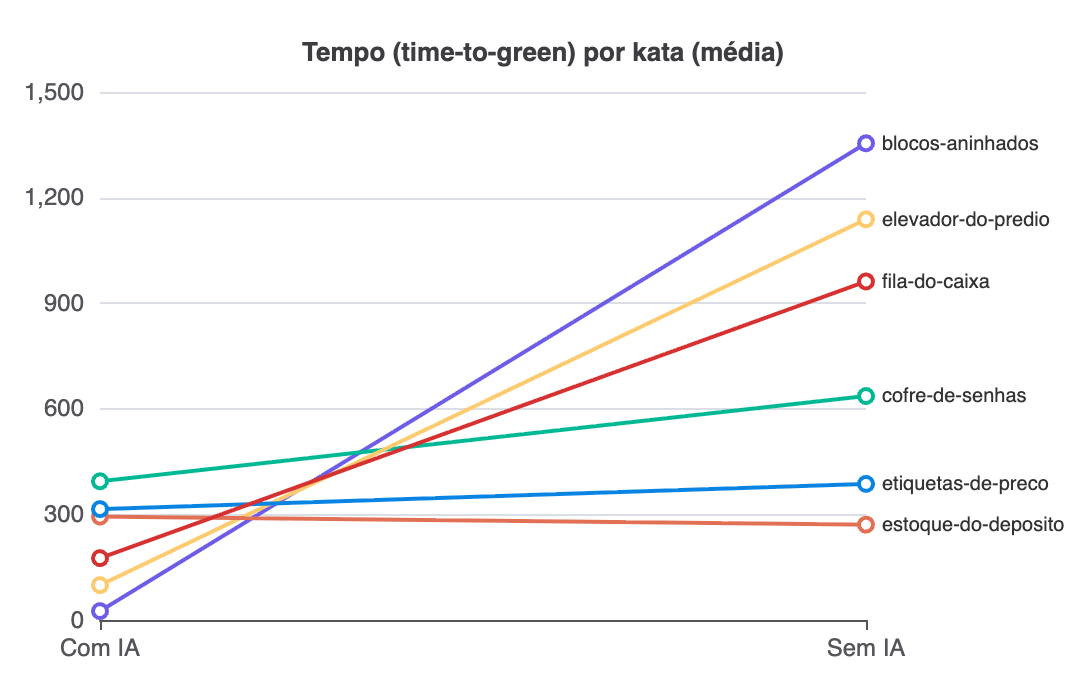
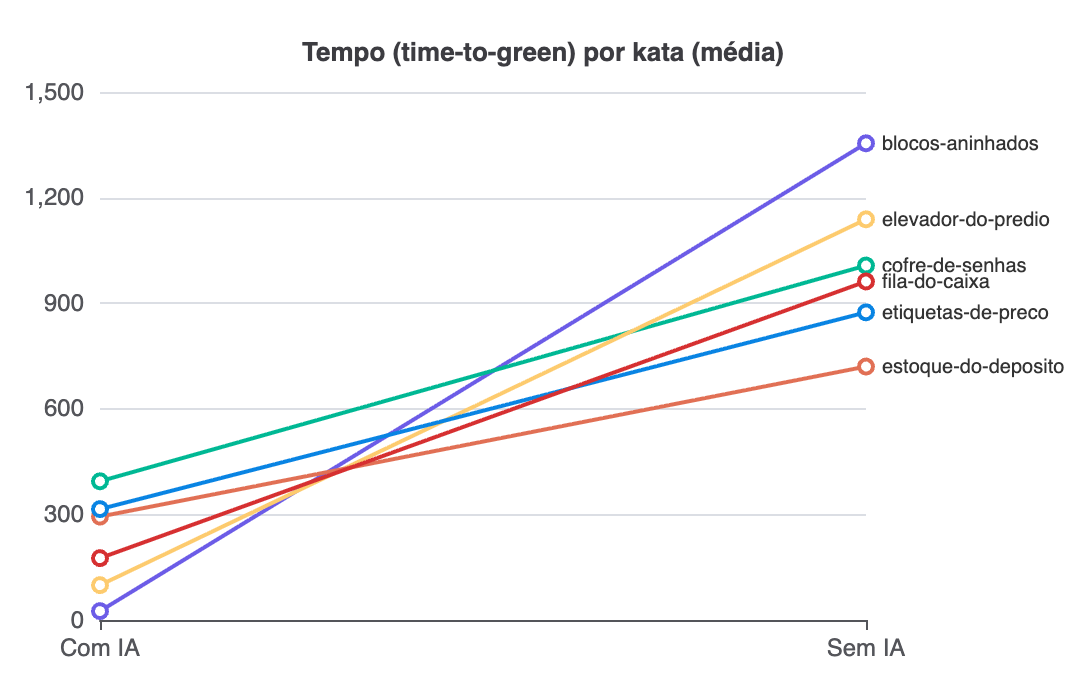
Ajsutes no relatorio

diff --git a/results/dashboard.html b/results/dashboard.html
@@ -162,7 +162,7 @@
 </div>
 
 <script>
-const DADOS = {"n_trials": 18, "n_com_ia": 9, "n_sem_ia": 9, "n_nao_sucesso": 0, "n_falhas": 0, "vulns_total": 0, "duplicacao_max": 0.0, "boxplots": {"tempo_seg": {"chave": "tempo_seg", "rotulo": "Tempo (time-to-green)", "unidade": "s", "boxes": {"com_ia": [25.3, 175.7, 206.5, 381.0, 501.0], "sem_ia": [270.9, 636.3, 861.9, 1210.5, 1506.6]}, "pontos": {"com_ia": [{"trial_id": "trial-arthur-02-elevador-do-predio-com_ia", "kata": "elevador-do-predio", "valor": 99.0}, {"trial_id": "trial-arthur-04-fila-do-caixa-com_ia", "kata": "fila-do-caixa", "valor": 175.7}, {"trial_id": "trial-arthur-06-blocos-aninhados-com_ia", "kata": "blocos-aninhados", "valor": 25.3}, {"trial_id": "trial-felipe-02-etiquetas-de-preco-com_ia", "kata": "etiquetas-de-preco", "valor": 204.0}, {"trial_id": "trial-felipe-04-estoque-do-deposito-com_ia", "kata": "estoque-do-deposito", "valor": 206.5}, {"trial_id": "trial-felipe-06-cofre-de-senhas-com_ia", "kata": "cofre-de-senhas", "valor": 287.2}, {"trial_id": "trial-gabriel-01-etiquetas-de-preco-com_ia", "kata": "etiquetas-de-preco", "valor": 425.9}, {"trial_id": "trial-gabriel-03-estoque-do-deposito-com_ia", "kata": "estoque-do-deposito", "valor": 381.0}, {"trial_id": "trial-gabriel-05-cofre-de-senhas-com_ia", "kata": "cofre-de-senhas", "valor": 501.0}], "sem_ia": [{"trial_id": "trial-arthur-01-cofre-de-senhas-sem_ia", "kata": "cofre-de-senhas", "valor": 636.3}, {"trial_id": "trial-arthur-03-etiquetas-de-preco-sem_ia", "kata": "etiquetas-de-preco", "valor": 386.6}, {"trial_id": "trial-arthur-05-estoque-do-deposito-sem_ia", "kata": "estoque-do-deposito", "valor": 270.9}, {"trial_id": "trial-felipe-01-elevador-do-predio-sem_ia", "kata": "elevador-do-predio", "valor": 1414.8}, {"trial_id": "trial-felipe-03-fila-do-caixa-sem_ia", "kata": "fila-do-caixa", "valor": 1210.5}, {"trial_id": "trial-felipe-05-blocos-aninhados-sem_ia", "kata": "blocos-aninhados", "valor": 1202.0}, {"trial_id": "trial-gabriel-02-fila-do-caixa-sem_ia", "kata": "fila-do-caixa", "valor": 713.1}, {"trial_id": "trial-gabriel-04-blocos-aninhados-sem_ia", "kata": "blocos-aninhados", "valor": 1506.6}, {"trial_id": "trial-gabriel-06-elevador-do-predio-sem_ia", "kata": "elevador-do-predio", "valor": 861.9}]}}, "cc_media": {"chave": "cc_media", "rotulo": "Complexidade ciclomática média", "unidade": "", "boxes": {"com_ia": [6.0, 7.0, 8.33, 9.0, 9.5], "sem_ia": [6.75, 8.0, 9.0, 9.0, 10.0]}, "pontos": {"com_ia": [{"trial_id": "trial-arthur-02-elevador-do-predio-com_ia", "kata": "elevador-do-predio", "valor": 8.0}, {"trial_id": "trial-arthur-04-fila-do-caixa-com_ia", "kata": "fila-do-caixa", "valor": 6.0}, {"trial_id": "trial-arthur-06-blocos-aninhados-com_ia", "kata": "blocos-aninhados", "valor": 9.5}, {"trial_id": "trial-felipe-02-etiquetas-de-preco-com_ia", "kata": "etiquetas-de-preco", "valor": 9.0}, {"trial_id": "trial-felipe-04-estoque-do-deposito-com_ia", "kata": "estoque-do-deposito", "valor": 7.0}, {"trial_id": "trial-felipe-06-cofre-de-senhas-com_ia", "kata": "cofre-de-senhas", "valor": 8.33}, {"trial_id": "trial-gabriel-01-etiquetas-de-preco-com_ia", "kata": "etiquetas-de-preco", "valor": 9.0}, {"trial_id": "trial-gabriel-03-estoque-do-deposito-com_ia", "kata": "estoque-do-deposito", "valor": 7.0}, {"trial_id": "trial-gabriel-05-cofre-de-senhas-com_ia", "kata": "cofre-de-senhas", "valor": 8.33}], "sem_ia": [{"trial_id": "trial-arthur-01-cofre-de-senhas-sem_ia", "kata": "cofre-de-senhas", "valor": 6.75}, {"trial_id": "trial-arthur-03-etiquetas-de-preco-sem_ia", "kata": "etiquetas-de-preco", "valor": 9.0}, {"trial_id": "trial-arthur-05-estoque-do-deposito-sem_ia", "kata": "estoque-do-deposito", "valor": 8.0}, {"trial_id": "trial-felipe-01-elevador-do-predio-sem_ia", "kata": "elevador-do-predio", "valor": 9.0}, {"trial_id": "trial-felipe-03-fila-do-caixa-sem_ia", "kata": "fila-do-caixa", "valor": 9.0}, {"trial_id": "trial-felipe-05-blocos-aninhados-sem_ia", "kata": "blocos-aninhados", "valor": 9.0}, {"trial_id": "trial-gabriel-02-fila-do-caixa-sem_ia", "kata": "fila-do-caixa", "valor": 7.0}, {"trial_id": "trial-gabriel-04-blocos-aninhados-sem_ia", "kata": "blocos-aninhados", "valor": 10.0}, {"trial_id": "trial-gabriel-06-elevador-do-predio-sem_ia", "kata": "elevador-do-predio", "valor": 9.0}]}}, "complexidade_por_100loc": {"chave": "complexidade_por_100loc", "rotulo": "Complexidade ciclomática por 100 LOC", "unidade": "", "boxes": {"com_ia": [15.91, 21.95, 22.22, 33.33, 67.86], "sem_ia": [19.05, 22.88, 29.03, 34.62, 64.52]}, "pontos": {"com_ia": [{"trial_id": "trial-arthur-02-elevador-do-predio-com_ia", "kata": "elevador-do-predio", "valor": 33.33}, {"trial_id": "trial-arthur-04-fila-do-caixa-com_ia", "kata": "fila-do-caixa", "valor": 22.22}, {"trial_id": "trial-arthur-06-blocos-aninhados-com_ia", "kata": "blocos-aninhados", "valor": 67.86}, {"trial_id": "trial-felipe-02-etiquetas-de-preco-com_ia", "kata": "etiquetas-de-preco", "valor": 21.95}, {"trial_id": "trial-felipe-04-estoque-do-deposito-com_ia", "kata": "estoque-do-deposito", "valor": 15.91}, {"trial_id": "trial-felipe-06-cofre-de-senhas-com_ia", "kata": "cofre-de-senhas", "valor": 38.45}, {"trial_id": "trial-gabriel-01-etiquetas-de-preco-com_ia", "kata": "etiquetas-de-preco", "valor": 21.95}, {"trial_id": "trial-gabriel-03-estoque-do-deposito-com_ia", "kata": "estoque-do-deposito", "valor": 16.67}, {"trial_id": "trial-gabriel-05-cofre-de-senhas-com_ia", "kata": "cofre-de-senhas", "valor": 31.63}], "sem_ia": [{"trial_id": "trial-arthur-01-cofre-de-senhas-sem_ia", "kata": "cofre-de-senhas", "valor": 22.88}, {"trial_id": "trial-arthur-03-etiquetas-de-preco-sem_ia", "kata": "etiquetas-de-preco", "valor": 19.57}, {"trial_id": "trial-arthur-05-estoque-do-deposito-sem_ia", "kata": "estoque-do-deposito", "valor": 19.05}, {"trial_id": "trial-felipe-01-elevador-do-predio-sem_ia", "kata": "elevador-do-predio", "valor": 32.14}, {"trial_id": "trial-felipe-03-fila-do-caixa-sem_ia", "kata": "fila-do-caixa", "valor": 29.03}, {"trial_id": "trial-felipe-05-blocos-aninhados-sem_ia", "kata": "blocos-aninhados", "valor": 36.0}, {"trial_id": "trial-gabriel-02-fila-do-caixa-sem_ia", "kata": "fila-do-caixa", "valor": 25.0}, {"trial_id": "trial-gabriel-04-blocos-aninhados-sem_ia", "kata": "blocos-aninhados", "valor": 64.52}, {"trial_id": "trial-gabriel-06-elevador-do-predio-sem_ia", "kata": "elevador-do-predio", "valor": 34.62}]}}, "loc_total": {"chave": "loc_total", "rotulo": "LOC (verbosidade)", "unidade": "linhas", "boxes": {"com_ia": [24.0, 28.0, 41.0, 44.0, 79.0], "sem_ia": [25.0, 28.0, 31.0, 42.0, 118.0]}, "pontos": {"com_ia": [{"trial_id": "trial-arthur-02-elevador-do-predio-com_ia", "kata": "elevador-do-predio", "valor": 24.0}, {"trial_id": "trial-arthur-04-fila-do-caixa-com_ia", "kata": "fila-do-caixa", "valor": 27.0}, {"trial_id": "trial-arthur-06-blocos-aninhados-com_ia", "kata": "blocos-aninhados", "valor": 28.0}, {"trial_id": "trial-felipe-02-etiquetas-de-preco-com_ia", "kata": "etiquetas-de-preco", "valor": 41.0}, {"trial_id": "trial-felipe-04-estoque-do-deposito-com_ia", "kata": "estoque-do-deposito", "valor": 44.0}, {"trial_id": "trial-felipe-06-cofre-de-senhas-com_ia", "kata": "cofre-de-senhas", "valor": 65.0}, {"trial_id": "trial-gabriel-01-etiquetas-de-preco-com_ia", "kata": "etiquetas-de-preco", "valor": 41.0}, {"trial_id": "trial-gabriel-03-estoque-do-deposito-com_ia", "kata": "estoque-do-deposito", "valor": 42.0}, {"trial_id": "trial-gabriel-05-cofre-de-senhas-com_ia", "kata": "cofre-de-senhas", "valor": 79.0}], "sem_ia": [{"trial_id": "trial-arthur-01-cofre-de-senhas-sem_ia", "kata": "cofre-de-senhas", "valor": 118.0}, {"trial_id": "trial-arthur-03-etiquetas-de-preco-sem_ia", "kata": "etiquetas-de-preco", "valor": 46.0}, {"trial_id": "trial-arthur-05-estoque-do-deposito-sem_ia", "kata": "estoque-do-deposito", "valor": 42.0}, {"trial_id": "trial-felipe-01-elevador-do-predio-sem_ia", "kata": "elevador-do-predio", "valor": 28.0}, {"trial_id": "trial-felipe-03-fila-do-caixa-sem_ia", "kata": "fila-do-caixa", "valor": 31.0}, {"trial_id": "trial-felipe-05-blocos-aninhados-sem_ia", "kata": "blocos-aninhados", "valor": 25.0}, {"trial_id": "trial-gabriel-02-fila-do-caixa-sem_ia", "kata": "fila-do-caixa", "valor": 28.0}, {"trial_id": "trial-gabriel-04-blocos-aninhados-sem_ia", "kata": "blocos-aninhados", "valor": 31.0}, {"trial_id": "trial-gabriel-06-elevador-do-predio-sem_ia", "kata": "elevador-do-predio", "valor": 26.0}]}}, "violacoes_por_100loc": {"chave": "violacoes_por_100loc", "rotulo": "Violações de estilo por 100 LOC", "unidade": "", "boxes": {"com_ia": [17.07, 21.95, 27.27, 29.63, 35.71], "sem_ia": [13.04, 19.23, 22.58, 36.0, 38.71]}, "pontos": {"com_ia": [{"trial_id": "trial-arthur-02-elevador-do-predio-com_ia", "kata": "elevador-do-predio", "valor": 25.0}, {"trial_id": "trial-arthur-04-fila-do-caixa-com_ia", "kata": "fila-do-caixa", "valor": 29.63}, {"trial_id": "trial-arthur-06-blocos-aninhados-com_ia", "kata": "blocos-aninhados", "valor": 35.71}, {"trial_id": "trial-felipe-02-etiquetas-de-preco-com_ia", "kata": "etiquetas-de-preco", "valor": 21.95}, {"trial_id": "trial-felipe-04-estoque-do-deposito-com_ia", "kata": "estoque-do-deposito", "valor": 27.27}, {"trial_id": "trial-felipe-06-cofre-de-senhas-com_ia", "kata": "cofre-de-senhas", "valor": 32.31}, {"trial_id": "trial-gabriel-01-etiquetas-de-preco-com_ia", "kata": "etiquetas-de-preco", "valor": 17.07}, {"trial_id": "trial-gabriel-03-estoque-do-deposito-com_ia", "kata": "estoque-do-deposito", "valor": 28.57}, {"trial_id": "trial-gabriel-05-cofre-de-senhas-com_ia", "kata": "cofre-de-senhas", "valor": 18.99}], "sem_ia": [{"trial_id": "trial-arthur-01-cofre-de-senhas-sem_ia", "kata": "cofre-de-senhas", "valor": 16.1}, {"trial_id": "trial-arthur-03-etiquetas-de-preco-sem_ia", "kata": "etiquetas-de-preco", "valor": 13.04}, {"trial_id": "trial-arthur-05-estoque-do-deposito-sem_ia", "kata": "estoque-do-deposito", "valor": 38.1}, {"trial_id": "trial-felipe-01-elevador-do-predio-sem_ia", "kata": "elevador-do-predio", "valor": 21.43}, {"trial_id": "trial-felipe-03-fila-do-caixa-sem_ia", "kata": "fila-do-caixa", "valor": 22.58}, {"trial_id": "trial-felipe-05-blocos-aninhados-sem_ia", "kata": "blocos-aninhados", "valor": 36.0}, {"trial_id": "trial-gabriel-02-fila-do-caixa-sem_ia", "kata": "fila-do-caixa", "valor": 28.57}, {"trial_id": "trial-gabriel-04-blocos-aninhados-sem_ia", "kata": "blocos-aninhados", "valor": 38.71}, {"trial_id": "trial-gabriel-06-elevador-do-predio-sem_ia", "kata": "elevador-do-predio", "valor": 19.23}]}}}, "slopes": {"tempo_seg": [{"kata": "blocos-aninhados", "com_ia": 25.3, "sem_ia": 1354.3}, {"kata": "cofre-de-senhas", "com_ia": 394.1, "sem_ia": 636.3}, {"kata": "elevador-do-predio", "com_ia": 99.0, "sem_ia": 1138.35}, {"kata": "estoque-do-deposito", "com_ia": 293.75, "sem_ia": 270.9}, {"kata": "etiquetas-de-preco", "com_ia": 314.95, "sem_ia": 386.6}, {"kata": "fila-do-caixa", "com_ia": 175.7, "sem_ia": 961.8}], "cc_media": [{"kata": "blocos-aninhados", "com_ia": 9.5, "sem_ia": 9.5}, {"kata": "cofre-de-senhas", "com_ia": 8.33, "sem_ia": 6.75}, {"kata": "elevador-do-predio", "com_ia": 8.0, "sem_ia": 9.0}, {"kata": "estoque-do-deposito", "com_ia": 7.0, "sem_ia": 8.0}, {"kata": "etiquetas-de-preco", "com_ia": 9.0, "sem_ia": 9.0}, {"kata": "fila-do-caixa", "com_ia": 6.0, "sem_ia": 8.0}], "complexidade_por_100loc": [{"kata": "blocos-aninhados", "com_ia": 67.86, "sem_ia": 50.26}, {"kata": "cofre-de-senhas", "com_ia": 35.04, "sem_ia": 22.88}, {"kata": "elevador-do-predio", "com_ia": 33.33, "sem_ia": 33.38}, {"kata": "estoque-do-deposito", "com_ia": 16.29, "sem_ia": 19.05}, {"kata": "etiquetas-de-preco", "com_ia": 21.95, "sem_ia": 19.57}, {"kata": "fila-do-caixa", "com_ia": 22.22, "sem_ia": 27.015}], "loc_total": [{"kata": "blocos-aninhados", "com_ia": 28.0, "sem_ia": 28.0}, {"kata": "cofre-de-senhas", "com_ia": 72.0, "sem_ia": 118.0}, {"kata": "elevador-do-predio", "com_ia": 24.0, "sem_ia": 27.0}, {"kata": "estoque-do-deposito", "com_ia": 43.0, "sem_ia": 42.0}, {"kata": "etiquetas-de-preco", "com_ia": 41.0, "sem_ia": 46.0}, {"kata": "fila-do-caixa", "com_ia": 27.0, "sem_ia": 29.5}], "violacoes_por_100loc": [{"kata": "blocos-aninhados", "com_ia": 35.71, "sem_ia": 37.355}, {"kata": "cofre-de-senhas", "com_ia": 25.65, "sem_ia": 16.1}, {"kata": "elevador-do-predio", "com_ia": 25.0, "sem_ia": 20.33}, {"kata": "estoque-do-deposito", "com_ia": 27.92, "sem_ia": 38.1}, {"kata": "etiquetas-de-preco", "com_ia": 19.51, "sem_ia": 13.04}, {"kata": "fila-do-caixa", "com_ia": 29.63, "sem_ia": 25.575}]}, "estatisticas": {"tempo_seg": {"mediana_com_ia": 206.5, "mediana_sem_ia": 861.9, "mannwhitney_p": 0.0012, "cliffs_delta": -0.8519, "cliffs_delta_interpretacao": "grande", "wilcoxon_kata_r": -0.9048, "wilcoxon_kata_r_interpretacao": "grande"}, "cc_media": {"mediana_com_ia": 8.33, "mediana_sem_ia": 9.0, "mannwhitney_p": 0.3768, "cliffs_delta": -0.2469, "cliffs_delta_interpretacao": "pequeno", "wilcoxon_kata_r": -0.4, "wilcoxon_kata_r_interpretacao": "medio"}, "complexidade_por_100loc": {"mediana_com_ia": 22.22, "mediana_sem_ia": 29.03, "mannwhitney_p": 0.5884, "cliffs_delta": -0.1605, "cliffs_delta_interpretacao": "pequeno", "wilcoxon_kata_r": 0.2381, "wilcoxon_kata_r_interpretacao": "pequeno"}, "loc_total": {"mediana_com_ia": 41.0, "mediana_sem_ia": 31.0, "mannwhitney_p": 0.6238, "cliffs_delta": 0.1481, "cliffs_delta_interpretacao": "pequeno", "wilcoxon_kata_r": -0.8667, "wilcoxon_kata_r_interpretacao": "grande"}, "violacoes_por_100loc": {"mediana_com_ia": 27.27, "mediana_sem_ia": 22.58, "mannwhitney_p": 0.9497, "cliffs_delta": 0.0247, "cliffs_delta_interpretacao": "negligivel", "wilcoxon_kata_r": 0.3333, "wilcoxon_kata_r_interpretacao": "medio"}}, "outliers_destaque": ["trial-arthur-01-cofre-de-senhas-sem_ia", "trial-gabriel-05-cofre-de-senhas-com_ia"], "outliers_tabela": [{"trial_id": "trial-arthur-01-cofre-de-senhas-sem_ia", "kata": "cofre-de-senhas", "treatment": "sem_ia", "integrante": "arthur", "metrica": "loc_total", "valor": "118.0", "q1": "28.0", "q3": "43.5", "cerca_inferior": "4.75", "cerca_superior": "66.75", "classificacao": "outlier_extremo"}, {"trial_id": "trial-gabriel-05-cofre-de-senhas-com_ia", "kata": "cofre-de-senhas", "treatment": "com_ia", "integrante": "gabriel", "metrica": "loc_total", "valor": "79.0", "q1": "28.0", "q3": "43.5", "cerca_inferior": "4.75", "cerca_superior": "66.75", "classificacao": "outlier_moderado"}]};
+const DADOS = {"n_trials": 18, "n_com_ia": 9, "n_sem_ia": 9, "n_nao_sucesso": 0, "n_falhas": 0, "vulns_total": 0, "duplicacao_max": 0.0, "boxplots": {"tempo_seg": {"chave": "tempo_seg", "rotulo": "Tempo (time-to-green)", "unidade": "s", "boxes": {"com_ia": [25.3, 175.7, 206.5, 381.0, 501.0], "sem_ia": [713.1, 861.9, 1007.0, 1210.5, 1506.6]}, "pontos": {"com_ia": [{"trial_id": "trial-arthur-02-elevador-do-predio-com_ia", "kata": "elevador-do-predio", "valor": 99.0}, {"trial_id": "trial-arthur-04-fila-do-caixa-com_ia", "kata": "fila-do-caixa", "valor": 175.7}, {"trial_id": "trial-arthur-06-blocos-aninhados-com_ia", "kata": "blocos-aninhados", "valor": 25.3}, {"trial_id": "trial-felipe-02-etiquetas-de-preco-com_ia", "kata": "etiquetas-de-preco", "valor": 204.0}, {"trial_id": "trial-felipe-04-estoque-do-deposito-com_ia", "kata": "estoque-do-deposito", "valor": 206.5}, {"trial_id": "trial-felipe-06-cofre-de-senhas-com_ia", "kata": "cofre-de-senhas", "valor": 287.2}, {"trial_id": "trial-gabriel-01-etiquetas-de-preco-com_ia", "kata": "etiquetas-de-preco", "valor": 425.9}, {"trial_id": "trial-gabriel-03-estoque-do-deposito-com_ia", "kata": "estoque-do-deposito", "valor": 381.0}, {"trial_id": "trial-gabriel-05-cofre-de-senhas-com_ia", "kata": "cofre-de-senhas", "valor": 501.0}], "sem_ia": [{"trial_id": "trial-arthur-01-cofre-de-senhas-sem_ia", "kata": "cofre-de-senhas", "valor": 1007.0}, {"trial_id": "trial-arthur-03-etiquetas-de-preco-sem_ia", "kata": "etiquetas-de-preco", "valor": 874.0}, {"trial_id": "trial-arthur-05-estoque-do-deposito-sem_ia", "kata": "estoque-do-deposito", "valor": 720.0}, {"trial_id": "trial-felipe-01-elevador-do-predio-sem_ia", "kata": "elevador-do-predio", "valor": 1414.8}, {"trial_id": "trial-felipe-03-fila-do-caixa-sem_ia", "kata": "fila-do-caixa", "valor": 1210.5}, {"trial_id": "trial-felipe-05-blocos-aninhados-sem_ia", "kata": "blocos-aninhados", "valor": 1202.0}, {"trial_id": "trial-gabriel-02-fila-do-caixa-sem_ia", "kata": "fila-do-caixa", "valor": 713.1}, {"trial_id": "trial-gabriel-04-blocos-aninhados-sem_ia", "kata": "blocos-aninhados", "valor": 1506.6}, {"trial_id": "trial-gabriel-06-elevador-do-predio-sem_ia", "kata": "elevador-do-predio", "valor": 861.9}]}}, "cc_media": {"chave": "cc_media", "rotulo": "Complexidade ciclomática média", "unidade": "", "boxes": {"com_ia": [6.0, 7.0, 8.33, 9.0, 9.5], "sem_ia": [6.75, 8.0, 9.0, 9.0, 10.0]}, "pontos": {"com_ia": [{"trial_id": "trial-arthur-02-elevador-do-predio-com_ia", "kata": "elevador-do-predio", "valor": 8.0}, {"trial_id": "trial-arthur-04-fila-do-caixa-com_ia", "kata": "fila-do-caixa", "valor": 6.0}, {"trial_id": "trial-arthur-06-blocos-aninhados-com_ia", "kata": "blocos-aninhados", "valor": 9.5}, {"trial_id": "trial-felipe-02-etiquetas-de-preco-com_ia", "kata": "etiquetas-de-preco", "valor": 9.0}, {"trial_id": "trial-felipe-04-estoque-do-deposito-com_ia", "kata": "estoque-do-deposito", "valor": 7.0}, {"trial_id": "trial-felipe-06-cofre-de-senhas-com_ia", "kata": "cofre-de-senhas", "valor": 8.33}, {"trial_id": "trial-gabriel-01-etiquetas-de-preco-com_ia", "kata": "etiquetas-de-preco", "valor": 9.0}, {"trial_id": "trial-gabriel-03-estoque-do-deposito-com_ia", "kata": "estoque-do-deposito", "valor": 7.0}, {"trial_id": "trial-gabriel-05-cofre-de-senhas-com_ia", "kata": "cofre-de-senhas", "valor": 8.33}], "sem_ia": [{"trial_id": "trial-arthur-01-cofre-de-senhas-sem_ia", "kata": "cofre-de-senhas", "valor": 6.75}, {"trial_id": "trial-arthur-03-etiquetas-de-preco-sem_ia", "kata": "etiquetas-de-preco", "valor": 9.0}, {"trial_id": "trial-arthur-05-estoque-do-deposito-sem_ia", "kata": "estoque-do-deposito", "valor": 8.0}, {"trial_id": "trial-felipe-01-elevador-do-predio-sem_ia", "kata": "elevador-do-predio", "valor": 9.0}, {"trial_id": "trial-felipe-03-fila-do-caixa-sem_ia", "kata": "fila-do-caixa", "valor": 9.0}, {"trial_id": "trial-felipe-05-blocos-aninhados-sem_ia", "kata": "blocos-aninhados", "valor": 9.0}, {"trial_id": "trial-gabriel-02-fila-do-caixa-sem_ia", "kata": "fila-do-caixa", "valor": 7.0}, {"trial_id": "trial-gabriel-04-blocos-aninhados-sem_ia", "kata": "blocos-aninhados", "valor": 10.0}, {"trial_id": "trial-gabriel-06-elevador-do-predio-sem_ia", "kata": "elevador-do-predio", "valor": 9.0}]}}, "complexidade_por_100loc": {"chave": "complexidade_por_100loc", "rotulo": "Complexidade ciclomática por 100 LOC", "unidade": "", "boxes": {"com_ia": [15.91, 21.95, 22.22, 33.33, 67.86], "sem_ia": [19.05, 22.88, 29.03, 34.62, 64.52]}, "pontos": {"com_ia": [{"trial_id": "trial-arthur-02-elevador-do-predio-com_ia", "kata": "elevador-do-predio", "valor": 33.33}, {"trial_id": "trial-arthur-04-fila-do-caixa-com_ia", "kata": "fila-do-caixa", "valor": 22.22}, {"trial_id": "trial-arthur-06-blocos-aninhados-com_ia", "kata": "blocos-aninhados", "valor": 67.86}, {"trial_id": "trial-felipe-02-etiquetas-de-preco-com_ia", "kata": "etiquetas-de-preco", "valor": 21.95}, {"trial_id": "trial-felipe-04-estoque-do-deposito-com_ia", "kata": "estoque-do-deposito", "valor": 15.91}, {"trial_id": "trial-felipe-06-cofre-de-senhas-com_ia", "kata": "cofre-de-senhas", "valor": 38.45}, {"trial_id": "trial-gabriel-01-etiquetas-de-preco-com_ia", "kata": "etiquetas-de-preco", "valor": 21.95}, {"trial_id": "trial-gabriel-03-estoque-do-deposito-com_ia", "kata": "estoque-do-deposito", "valor": 16.67}, {"trial_id": "trial-gabriel-05-cofre-de-senhas-com_ia", "kata": "cofre-de-senhas", "valor": 31.63}], "sem_ia": [{"trial_id": "trial-arthur-01-cofre-de-senhas-sem_ia", "kata": "cofre-de-senhas", "valor": 22.88}, {"trial_id": "trial-arthur-03-etiquetas-de-preco-sem_ia", "kata": "etiquetas-de-preco", "valor": 19.57}, {"trial_id": "trial-arthur-05-estoque-do-deposito-sem_ia", "kata": "estoque-do-deposito", "valor": 19.05}, {"trial_id": "trial-felipe-01-elevador-do-predio-sem_ia", "kata": "elevador-do-predio", "valor": 32.14}, {"trial_id": "trial-felipe-03-fila-do-caixa-sem_ia", "kata": "fila-do-caixa", "valor": 29.03}, {"trial_id": "trial-felipe-05-blocos-aninhados-sem_ia", "kata": "blocos-aninhados", "valor": 36.0}, {"trial_id": "trial-gabriel-02-fila-do-caixa-sem_ia", "kata": "fila-do-caixa", "valor": 25.0}, {"trial_id": "trial-gabriel-04-blocos-aninhados-sem_ia", "kata": "blocos-aninhados", "valor": 64.52}, {"trial_id": "trial-gabriel-06-elevador-do-predio-sem_ia", "kata": "elevador-do-predio", "valor": 34.62}]}}, "loc_total": {"chave": "loc_total", "rotulo": "LOC (verbosidade)", "unidade": "linhas", "boxes": {"com_ia": [24.0, 28.0, 41.0, 44.0, 79.0], "sem_ia": [25.0, 28.0, 31.0, 42.0, 118.0]}, "pontos": {"com_ia": [{"trial_id": "trial-arthur-02-elevador-do-predio-com_ia", "kata": "elevador-do-predio", "valor": 24.0}, {"trial_id": "trial-arthur-04-fila-do-caixa-com_ia", "kata": "fila-do-caixa", "valor": 27.0}, {"trial_id": "trial-arthur-06-blocos-aninhados-com_ia", "kata": "blocos-aninhados", "valor": 28.0}, {"trial_id": "trial-felipe-02-etiquetas-de-preco-com_ia", "kata": "etiquetas-de-preco", "valor": 41.0}, {"trial_id": "trial-felipe-04-estoque-do-deposito-com_ia", "kata": "estoque-do-deposito", "valor": 44.0}, {"trial_id": "trial-felipe-06-cofre-de-senhas-com_ia", "kata": "cofre-de-senhas", "valor": 65.0}, {"trial_id": "trial-gabriel-01-etiquetas-de-preco-com_ia", "kata": "etiquetas-de-preco", "valor": 41.0}, {"trial_id": "trial-gabriel-03-estoque-do-deposito-com_ia", "kata": "estoque-do-deposito", "valor": 42.0}, {"trial_id": "trial-gabriel-05-cofre-de-senhas-com_ia", "kata": "cofre-de-senhas", "valor": 79.0}], "sem_ia": [{"trial_id": "trial-arthur-01-cofre-de-senhas-sem_ia", "kata": "cofre-de-senhas", "valor": 118.0}, {"trial_id": "trial-arthur-03-etiquetas-de-preco-sem_ia", "kata": "etiquetas-de-preco", "valor": 46.0}, {"trial_id": "trial-arthur-05-estoque-do-deposito-sem_ia", "kata": "estoque-do-deposito", "valor": 42.0}, {"trial_id": "trial-felipe-01-elevador-do-predio-sem_ia", "kata": "elevador-do-predio", "valor": 28.0}, {"trial_id": "trial-felipe-03-fila-do-caixa-sem_ia", "kata": "fila-do-caixa", "valor": 31.0}, {"trial_id": "trial-felipe-05-blocos-aninhados-sem_ia", "kata": "blocos-aninhados", "valor": 25.0}, {"trial_id": "trial-gabriel-02-fila-do-caixa-sem_ia", "kata": "fila-do-caixa", "valor": 28.0}, {"trial_id": "trial-gabriel-04-blocos-aninhados-sem_ia", "kata": "blocos-aninhados", "valor": 31.0}, {"trial_id": "trial-gabriel-06-elevador-do-predio-sem_ia", "kata": "elevador-do-predio", "valor": 26.0}]}}, "violacoes_por_100loc": {"chave": "violacoes_por_100loc", "rotulo": "Violações de estilo por 100 LOC", "unidade": "", "boxes": {"com_ia": [17.07, 21.95, 27.27, 29.63, 35.71], "sem_ia": [13.04, 19.23, 22.58, 36.0, 38.71]}, "pontos": {"com_ia": [{"trial_id": "trial-arthur-02-elevador-do-predio-com_ia", "kata": "elevador-do-predio", "valor": 25.0}, {"trial_id": "trial-arthur-04-fila-do-caixa-com_ia", "kata": "fila-do-caixa", "valor": 29.63}, {"trial_id": "trial-arthur-06-blocos-aninhados-com_ia", "kata": "blocos-aninhados", "valor": 35.71}, {"trial_id": "trial-felipe-02-etiquetas-de-preco-com_ia", "kata": "etiquetas-de-preco", "valor": 21.95}, {"trial_id": "trial-felipe-04-estoque-do-deposito-com_ia", "kata": "estoque-do-deposito", "valor": 27.27}, {"trial_id": "trial-felipe-06-cofre-de-senhas-com_ia", "kata": "cofre-de-senhas", "valor": 32.31}, {"trial_id": "trial-gabriel-01-etiquetas-de-preco-com_ia", "kata": "etiquetas-de-preco", "valor": 17.07}, {"trial_id": "trial-gabriel-03-estoque-do-deposito-com_ia", "kata": "estoque-do-deposito", "valor": 28.57}, {"trial_id": "trial-gabriel-05-cofre-de-senhas-com_ia", "kata": "cofre-de-senhas", "valor": 18.99}], "sem_ia": [{"trial_id": "trial-arthur-01-cofre-de-senhas-sem_ia", "kata": "cofre-de-senhas", "valor": 16.1}, {"trial_id": "trial-arthur-03-etiquetas-de-preco-sem_ia", "kata": "etiquetas-de-preco", "valor": 13.04}, {"trial_id": "trial-arthur-05-estoque-do-deposito-sem_ia", "kata": "estoque-do-deposito", "valor": 38.1}, {"trial_id": "trial-felipe-01-elevador-do-predio-sem_ia", "kata": "elevador-do-predio", "valor": 21.43}, {"trial_id": "trial-felipe-03-fila-do-caixa-sem_ia", "kata": "fila-do-caixa", "valor": 22.58}, {"trial_id": "trial-felipe-05-blocos-aninhados-sem_ia", "kata": "blocos-aninhados", "valor": 36.0}, {"trial_id": "trial-gabriel-02-fila-do-caixa-sem_ia", "kata": "fila-do-caixa", "valor": 28.57}, {"trial_id": "trial-gabriel-04-blocos-aninhados-sem_ia", "kata": "blocos-aninhados", "valor": 38.71}, {"trial_id": "trial-gabriel-06-elevador-do-predio-sem_ia", "kata": "elevador-do-predio", "valor": 19.23}]}}}, "slopes": {"tempo_seg": [{"kata": "blocos-aninhados", "com_ia": 25.3, "sem_ia": 1354.3}, {"kata": "cofre-de-senhas", "com_ia": 394.1, "sem_ia": 1007.0}, {"kata": "elevador-do-predio", "com_ia": 99.0, "sem_ia": 1138.35}, {"kata": "estoque-do-deposito", "com_ia": 293.75, "sem_ia": 720.0}, {"kata": "etiquetas-de-preco", "com_ia": 314.95, "sem_ia": 874.0}, {"kata": "fila-do-caixa", "com_ia": 175.7, "sem_ia": 961.8}], "cc_media": [{"kata": "blocos-aninhados", "com_ia": 9.5, "sem_ia": 9.5}, {"kata": "cofre-de-senhas", "com_ia": 8.33, "sem_ia": 6.75}, {"kata": "elevador-do-predio", "com_ia": 8.0, "sem_ia": 9.0}, {"kata": "estoque-do-deposito", "com_ia": 7.0, "sem_ia": 8.0}, {"kata": "etiquetas-de-preco", "com_ia": 9.0, "sem_ia": 9.0}, {"kata": "fila-do-caixa", "com_ia": 6.0, "sem_ia": 8.0}], "complexidade_por_100loc": [{"kata": "blocos-aninhados", "com_ia": 67.86, "sem_ia": 50.26}, {"kata": "cofre-de-senhas", "com_ia": 35.04, "sem_ia": 22.88}, {"kata": "elevador-do-predio", "com_ia": 33.33, "sem_ia": 33.38}, {"kata": "estoque-do-deposito", "com_ia": 16.29, "sem_ia": 19.05}, {"kata": "etiquetas-de-preco", "com_ia": 21.95, "sem_ia": 19.57}, {"kata": "fila-do-caixa", "com_ia": 22.22, "sem_ia": 27.015}], "loc_total": [{"kata": "blocos-aninhados", "com_ia": 28.0, "sem_ia": 28.0}, {"kata": "cofre-de-senhas", "com_ia": 72.0, "sem_ia": 118.0}, {"kata": "elevador-do-predio", "com_ia": 24.0, "sem_ia": 27.0}, {"kata": "estoque-do-deposito", "com_ia": 43.0, "sem_ia": 42.0}, {"kata": "etiquetas-de-preco", "com_ia": 41.0, "sem_ia": 46.0}, {"kata": "fila-do-caixa", "com_ia": 27.0, "sem_ia": 29.5}], "violacoes_por_100loc": [{"kata": "blocos-aninhados", "com_ia": 35.71, "sem_ia": 37.355}, {"kata": "cofre-de-senhas", "com_ia": 25.65, "sem_ia": 16.1}, {"kata": "elevador-do-predio", "com_ia": 25.0, "sem_ia": 20.33}, {"kata": "estoque-do-deposito", "com_ia": 27.92, "sem_ia": 38.1}, {"kata": "etiquetas-de-preco", "com_ia": 19.51, "sem_ia": 13.04}, {"kata": "fila-do-caixa", "com_ia": 29.63, "sem_ia": 25.575}]}, "estatisticas": {"tempo_seg": {"mediana_com_ia": 206.5, "mediana_sem_ia": 1007.0, "mannwhitney_p": 0.0, "cliffs_delta": -1.0, "cliffs_delta_interpretacao": "grande", "wilcoxon_kata_r": -1.0, "wilcoxon_kata_r_interpretacao": "grande"}, "cc_media": {"mediana_com_ia": 8.33, "mediana_sem_ia": 9.0, "mannwhitney_p": 0.3768, "cliffs_delta": -0.2469, "cliffs_delta_interpretacao": "pequeno", "wilcoxon_kata_r": -0.4, "wilcoxon_kata_r_interpretacao": "medio"}, "complexidade_por_100loc": {"mediana_com_ia": 22.22, "mediana_sem_ia": 29.03, "mannwhitney_p": 0.5884, "cliffs_delta": -0.1605, "cliffs_delta_interpretacao": "pequeno", "wilcoxon_kata_r": 0.2381, "wilcoxon_kata_r_interpretacao": "pequeno"}, "loc_total": {"mediana_com_ia": 41.0, "mediana_sem_ia": 31.0, "mannwhitney_p": 0.6238, "cliffs_delta": 0.1481, "cliffs_delta_interpretacao": "pequeno", "wilcoxon_kata_r": -0.8667, "wilcoxon_kata_r_interpretacao": "grande"}, "violacoes_por_100loc": {"mediana_com_ia": 27.27, "mediana_sem_ia": 22.58, "mannwhitney_p": 0.9497, "cliffs_delta": 0.0247, "cliffs_delta_interpretacao": "negligivel", "wilcoxon_kata_r": 0.3333, "wilcoxon_kata_r_interpretacao": "medio"}}, "outliers_destaque": ["trial-arthur-01-cofre-de-senhas-sem_ia", "trial-gabriel-05-cofre-de-senhas-com_ia"], "outliers_tabela": [{"trial_id": "trial-arthur-01-cofre-de-senhas-sem_ia", "kata": "cofre-de-senhas", "treatment": "sem_ia", "integrante": "arthur", "metrica": "loc_total", "valor": "118.0", "q1": "28.0", "q3": "43.5", "cerca_inferior": "4.75", "cerca_superior": "66.75", "classificacao": "outlier_extremo"}, {"trial_id": "trial-gabriel-05-cofre-de-senhas-com_ia", "kata": "cofre-de-senhas", "treatment": "com_ia", "integrante": "gabriel", "metrica": "loc_total", "valor": "79.0", "q1": "28.0", "q3": "43.5", "cerca_inferior": "4.75", "cerca_superior": "66.75", "classificacao": "outlier_moderado"}]};
 const CORES = { com_ia: "#6c5ce7", sem_ia: "#00b894" };
 const ROTULO_TRAT = { com_ia: "Com IA", sem_ia: "Sem IA" };
 

diff --git a/Relatorio.md b/Relatorio.md
@@ -119,9 +119,9 @@ Cada RQ recebe um boxplot pareado (`com_ia` vs `sem_ia`) e, quando aplicável, u
 ![Boxplot do tempo, time-to-green, com_ia vs sem_ia](results/graficos/rq1_tempo_boxplot.png)
 ![Tempo por kata, com_ia vs sem_ia](results/graficos/rq1_tempo_slope.png)
 
-**Resultado**: mediana do tempo até passar em todos os testes de aceitação, 206,5s em `com_ia` (IQR 205,3s) contra 861,9s em `sem_ia` (IQR 574,2s), cerca de 4,2 vezes mais rápido com IA, diferença estatisticamente significativa (Mann-Whitney p=0,001).
+**Resultado**: mediana do tempo até passar em todos os testes de aceitação, 206,5s em `com_ia` (IQR 205,3s) contra 1007,0s em `sem_ia` (IQR 348,6s), cerca de 4,9 vezes mais rápido com IA, diferença estatisticamente significativa (Mann-Whitney p<0,001).
 
-A caixa de `com_ia` fica inteira abaixo da caixa de `sem_ia`, sem nenhuma sobreposição, o padrão mais limpo de toda a seção. No gráfico por kata, 5 das 6 linhas sobem da esquerda para a direita, `com_ia` mais rápido em cada uma delas. A exceção é Estoque do Depósito, onde a média de `com_ia` fica um pouco acima da de `sem_ia` (293,75s contra 270,9s), puxada por um trial bem mais lento (381s) que pesa mais nessa média do que o outro trial `com_ia` do mesmo kata (206,5s).
+A caixa de `com_ia` fica inteira abaixo da caixa de `sem_ia`, sem nenhuma sobreposição, o padrão mais limpo de toda a seção. No gráfico por kata, as 6 linhas sobem da esquerda para a direita, sem exceção, `com_ia` mais rápido em cada um dos 6 katas.
 
 **RQ2, o uso de assistente de IA reduz a quantidade de defeitos (testes que falham) no código produzido?**
 
@@ -163,7 +163,7 @@ Violações de estilo (PMD `codestyle`) já divididas por 100 LOC, para não con
 
 ### 4.3 Discussão
 
-**RQ1, tempo**: hipótese confirmada. A mediana de tempo caiu de 861,9s (`sem_ia`) para 206,5s (`com_ia`), efeito grande em duas medidas independentes, r rank-biserial de -0,90 no Wilcoxon pareado por kata (W+=1, n=6, p=0,062) e Cliff's delta de -0,85 no Mann-Whitney não pareado (9 vs 9, p=0,001). O teste pareado por kata não cruza o 0,05 convencional, mas com apenas 6 pares o menor p alcançável por um teste exato é 0,03125, então 0,062 já é o segundo menor valor possível nessa amostra, o teste tem pouco poder com N tão baixo. A convergência das duas análises, pareada e não pareada, dá confiança de que o efeito é real e não um artefato de um único teste.
+**RQ1, tempo**: hipótese confirmada. A mediana de tempo caiu de 1007,0s (`sem_ia`) para 206,5s (`com_ia`), efeito máximo e significativo nas duas medidas, r rank-biserial de -1,0 no Wilcoxon pareado por kata (W+=0, n=6, p=0,031, o menor p alcançável com apenas 6 pares) e Cliff's delta de -1,0 no Mann-Whitney não pareado (9 vs 9, p<0,001, separação perfeita entre os dois grupos). Os 6 katas, sem exceção, tiveram `com_ia` mais rápido que `sem_ia`, a convergência das duas análises, pareada e não pareada, dá confiança de que o efeito é real e não um artefato de um único teste.
 
 **RQ2, defeitos**: hipótese nem confirmada nem refutada, sem o que testar. Os 18 trials tiveram 100% de sucesso e 0 testes falhando, `com_ia` e `sem_ia`, sem nenhuma variância entre tratamentos. Isso não significa "sem efeito", significa que os katas foram calibrados dentro da capacidade dos dois tratamentos no time-box de 35 minutos, um resultado esperado do próprio desenho do experimento, não uma falha de coleta.
 
@@ -171,7 +171,7 @@ Violações de estilo (PMD `codestyle`) já divididas por 100 LOC, para não con
 
 **Inovação, verbosidade e estilo (LOC e PMD `codestyle`)**: LOC ficou maior em `com_ia` (mediana 41 vs 31 linhas), confirmando a expectativa de maior verbosidade levantada na Introdução, com efeito grande no teste pareado (r=-0,87, p=0,125) mas não significativo no não pareado (p=0,624), o mesmo padrão de RQ1, um efeito visível que ainda não cruza 0,05 com N=18. Violações de estilo por 100 LOC ficaram um pouco maiores em `com_ia` (mediana 27,27 contra 22,58 de `sem_ia`), mas sem diferença estatística clara, o teste pareado deu efeito médio não significativo (p=0,563) e o não pareado deu efeito negligível (p=0,950). Ou seja, o código com IA saiu mais verboso, mas não claramente menos conforme ao style guide por linha.
 
-**Inovação, correlação tempo x violações**: a hipótese de que "pressa gera mais violações" não se sustentou de forma consistente, a correlação de Spearman deu sinais opostos entre os tratamentos e nenhuma passou no limiar de 0,05 bilateral (a mais próxima, `com_ia`, tempo relativo x violações relativas por kata, rho=-0,59, p=0,098), então não há evidência forte de que o tempo do trial, por si só, explique a diferença de conformidade de estilo.
+**Inovação, correlação tempo x violações**: a hipótese de que "pressa gera mais violações" não se sustentou de forma consistente, a correlação de Spearman deu sinais opostos entre os tratamentos e nenhuma passou no limiar de 0,05 bilateral (a mais próxima, `com_ia`, tempo x violações por KLOC, rho=-0,57, p=0,121), então não há evidência forte de que o tempo do trial, por si só, explique a diferença de conformidade de estilo.
 
 **Inovação, segurança (Semgrep)**: 0 vulnerabilidades encontradas nos 18 trials, `com_ia` e `sem_ia`, resultado esperado dado o escopo pequeno e a natureza dos katas, que não envolvem entrada de rede, banco de dados ou serialização, superfícies mais comuns de vulnerabilidade estática.
 

diff --git a/HIPOTESES.md b/HIPOTESES.md
@@ -94,15 +94,14 @@ pares) para as duas variáveis de RQ1/RQ2
 
 | Métrica | Mediana com_ia \| sem_ia | Wilcoxon p | r rank-biserial |
 | --- | --- | --- | --- |
-| RQ1: tempo (seg) | 206.5 \| 861.9 | 0.062 | -0.90 (grande) |
+| RQ1: tempo (seg) | 206.5 \| 1007.0 | 0.031 | -1.0 (grande) |
 | RQ2: taxa de sucesso (%) | 100 \| 100 | n/a | n/a |
 | RQ2: testes falhando | 0 \| 0 | n/a | n/a |
 
-RQ1 (tempo) tem um `r` grande, mesmo o `p` pareado por kata (n=6, teste
-exato) não cruzando 0,05, o menor `p` alcançável com apenas 6 pares é
-0,03125, então 0,062 já é o segundo menor valor possível nessa amostra; a
-versão não pareada (Mann-Whitney, 9 vs 9) do mesmo dado, na seção abaixo,
-chega a p=0,001. RQ2 fica sem teste possível, os 18 trials têm 100% de
+RQ1 (tempo) tem `r` máximo, o `p` pareado por kata (n=6, teste exato) já
+cruza 0,05, é o menor `p` alcançável com apenas 6 pares, 0,03125; a versão
+não pareada (Mann-Whitney, 9 vs 9) do mesmo dado, na seção abaixo, chega a
+p<0,001, separação perfeita entre os dois grupos. RQ2 fica sem teste possível, os 18 trials têm 100% de
 sucesso e zero testes falhando em todos, sem nenhuma variância entre
 tratamentos, então as diferenças pareadas por kata são todas zero e o
 Wilcoxon signed-rank fica indefinido (n=0 após remover empates em zero).
@@ -173,7 +172,7 @@ diretas das estatísticas de teste já calculadas:
 
 | Métrica | Mediana com_ia \| sem_ia | Mann-Whitney p | Cliff's delta |
 | --- | --- | --- | --- |
-| RQ1: tempo (seg) | 206.5 \| 861.9 | **0.001** | **-0.85 (grande)** |
+| RQ1: tempo (seg) | 206.5 \| 1007.0 | **<0.001** | **-1.0 (grande)** |
 | RQ3: complexidade ciclomática média | 8.33 \| 9.0 | 0.377 | -0.25 (pequeno) |
 | RQ3: duplicação (%) | 0.0 \| 0.0 | 1.000 | 0.0 (negligível) |
 
@@ -244,17 +243,19 @@ conformidade de estilo entre `com_ia` e `sem_ia` nesses 18 trials.
 
 **Correlação tempo × violações** ([scripts/correlacao_tempo_violacoes.sh](scripts/correlacao_tempo_violacoes.sh),
 Spearman exato, H1 unilateral "trial mais rápido tem mais violações",
-`results/correlacao_tempo_violacoes.csv`): a única correlação que cruza
-significância unilateral (0,05) é em `com_ia`, análise C (tempo e violações
-relativos à média do próprio kata): **rho=-0,594, p(rho<0)=0,049**, nos
-trials com IA, terminar mais rápido que a média do kata está associado a
-mais violações de estilo que a média do kata. Em `sem_ia`, a mesma análise
-dá rho=0,000 (nenhuma relação). As demais análises (A: tempo x violações
-brutas; B: tempo x violações por KLOC) não são significativas em nenhum dos
-dois tratamentos. Isto é: há um indício (não uma prova, N=9 por tratamento)
-de que ir mais rápido com IA tem um custo de conformidade que não aparece na
-resolução manual, coerente com um trade-off velocidade/qualidade específico
-do uso de IA, mas seria preciso mais dados para confirmar.
+`results/correlacao_tempo_violacoes.csv`): nenhuma das seis correlações
+(análises A/B/C, `com_ia`/`sem_ia`) cruza significância unilateral (0,05). A
+mais próxima é em `com_ia`, análise B (tempo e violações por KLOC):
+**rho=-0,567, p(rho<0)=0,060**, sinal na direção oposta à hipótese (terminar
+mais devagar associado a mais violações por KLOC, não menos), mas sem
+significância estatística. A análise C (tempo relativo à média do kata x
+violações relativas à média do kata) também não é significativa em `com_ia`
+(rho=-0,502, p(rho<0)=0,086) nem em `sem_ia` (rho=-0,033), e a análise A
+(tempo x violações brutas) não mostra padrão em nenhum dos dois tratamentos.
+Isto é: a hipótese de que "pressa gera mais violações" não se sustenta de
+forma consistente nesses 18 trials, os sinais mudam de direção entre
+tratamentos e nenhum cruza o limiar convencional, seria preciso mais dados
+para investigar qualquer tendência.
 
 **Ressalva sobre N pequeno**: os mesmos limites de RQ1/RQ3 valem aqui, 5-6
 pares no Wilcoxon, 9 vs 9 no Mann-Whitney e Spearman. Nenhum desses
@@ -342,7 +343,7 @@ mesmo kata:
 `tempo_seg`, `cc_media`, `duplicacao_pct` e `violacoes_por_100loc` não têm
 nenhum ponto fora da cerca 1,5x em nenhum dos 18 trials — em particular,
 `tempo_seg` varia ~60x entre o trial mais rápido (25,3s) e o mais lento
-(1506,6s) sem cruzar a cerca superior (~1728s): essa variação é o próprio
+(1506,6s) sem cruzar a cerca superior (~2094s): essa variação é o próprio
 efeito grande de RQ1 já documentado acima, não uma anomalia.
 
 **Decisão: manter os dois, sem exclusão.** Dos 3 trials do kata Cofre de
